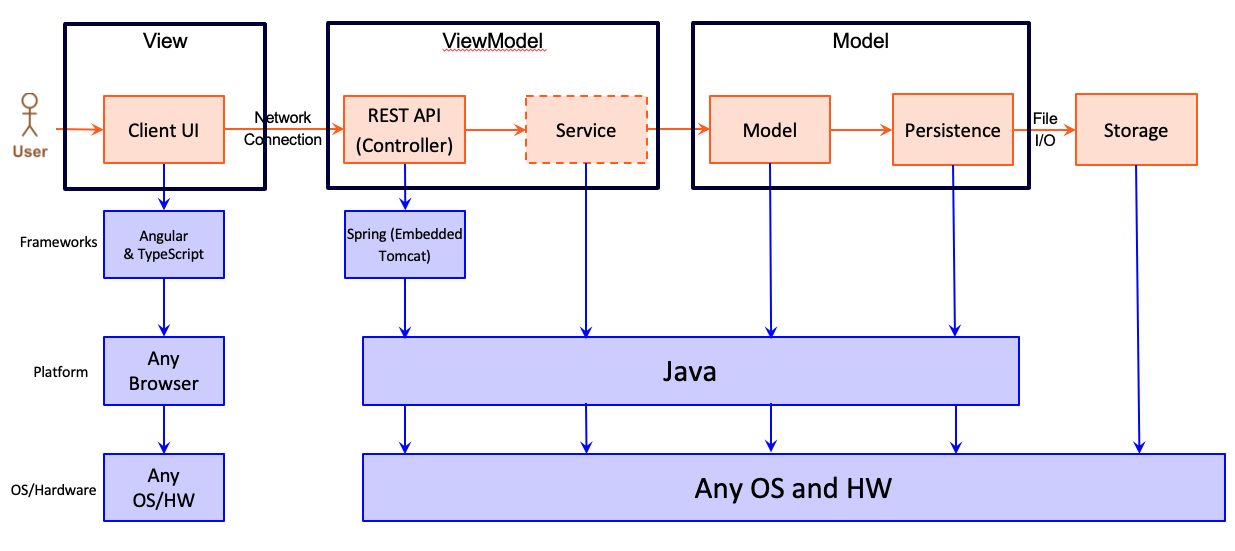
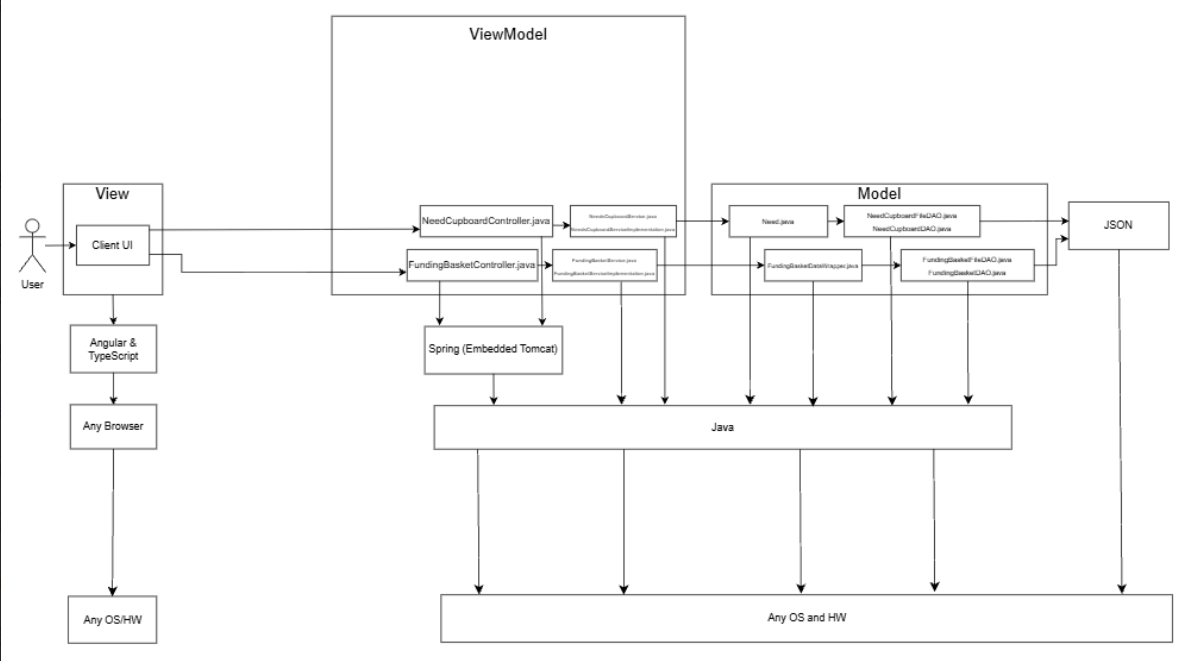
Diagrams updated + formatting

diff --git a/docs/DesignDoc.md b/docs/DesignDoc.md
@@ -349,10 +349,12 @@ When logged in, any user can navigate to the reviews page from the navigation ba
 > _At appropriate places as part of this narrative provide **one** or more updated and **properly labeled**
 > static models (UML class diagrams) with some details such as associations (connections) between classes, and critical attributes and methods. (**Be sure** to revisit the Static **UML Review Sheet** to ensure your class diagrams are using correct format and syntax.)_
 > 
-<img width="929" height="716" alt="View Model Architecture" src="ViewModelTierArchitecture.png" />
+<img width="929" height="716" alt="View Model 1 Architecture" src="ViewModelClasses1.png" />
+<img width="929" height="716" alt="View Model 2 Architecture" src="ViewModelClasses2.png" />
 
 
 ### Model Tier
+
 Our Model tier consists of a Need.java file that contains our need object. Each need object has an identification (id), name, value (or the cost), type (what type of item it is), and quantity. There are getter and setters for each of the variables above.
 
 Our Model tier also includes a User.java file that represents an individual user. Each user has a name and a funding basket (an array of needs). The class has a constructor to initialize these fields and getters (getName(), getBasket()). Finally, we also have a FundingBasketDataWrapper.java file that wraps the collection of users for persistence and transport. It holds a single field, a list of users, along with a constructor to set it and a getter (getUsers()).
@@ -531,7 +533,7 @@ Finally, our Model tier has an Account.java and AccountDataWrapper.java. Account
     * save()
       * Write the current list of reviews into the JSON file
       * @return true if it was written successfully or false if it was not
-    * load()
+    * load()  
       * Loads all the reviews from the JSON file into the memory
       * @return true if it read successfully
 
@@ -621,9 +623,8 @@ Finally, our Model tier has an Account.java and AccountDataWrapper.java. Account
       * @throws IOException if an I/O error occurs while saving data
 
 
-
-<img width="593" height="332" alt="Model Tier Architecture" src="ModelTierArchitecture.png" />
-
+<img width="593" height="332" alt="Model Tier Classes " src="ModelClasses.png" />
+<img width="593" height="332" alt="DAO Model Tier Classes " src="DAOModelClasses.png"/>
 
 
 ## OO Design Principles
